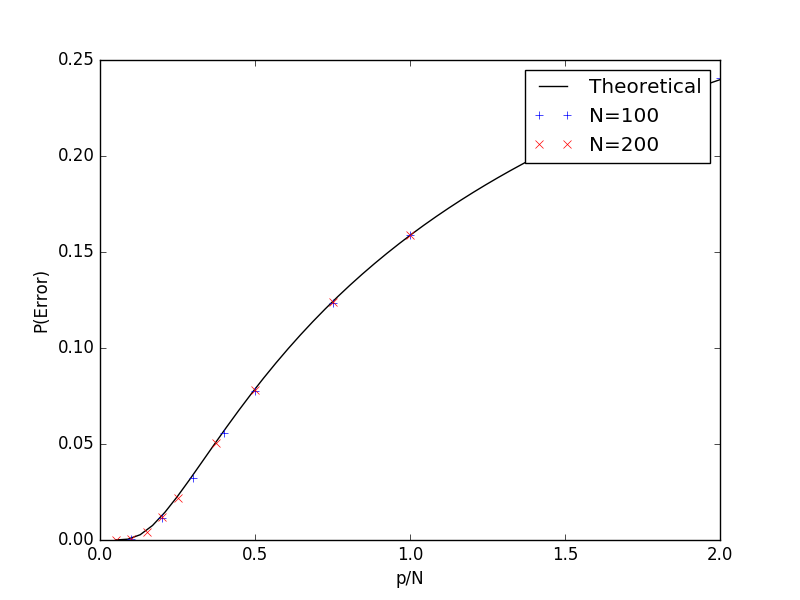
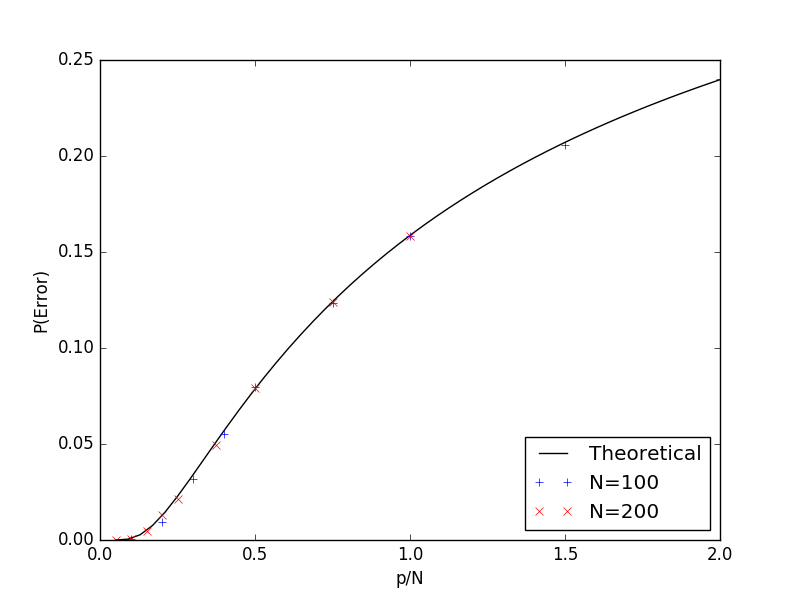
more detailed plots

diff --git a/ex2.py b/ex2.py
@@ -14,30 +14,35 @@ Feed these patterns to the network and use asynchronous updating. For each
 digit, repeat many times. Determine and plot the probability that the
 network retrieves the correct pattern as a function of q. Discuss.
 """
-def run(iters=100, debug=False):
+def run(iters=100, show_updates=False, debug=False):
     digits = common.digits()
     W = common.hebbs_rule(digits)
     P, N = digits.shape
 
-    x_axis = [q/100 for q in range(100)]
+    x_axis = [q/100 for q in range(101)]
     error_mean = []
     error_digit = []
+    updates_digit = []
     for q in x_axis:
         error_d = np.zeros(P)
+        updates_d = np.copy(error_d)
         for n in range(iters):
             distorteds = digits * rp(N, P, q)
             for i, (digit, distorted) in enumerate(zip(digits, distorteds)):
                 lucky = True
-                updates = 1
+                updates = 0
                 while lucky and not np.array_equal(digit, distorted):
                     temp_test = np.copy(distorted)
                     distorted = astep(W, distorted)
-                    lucky = updates % 5 and not np.array_equal(temp_test, distorted)
+                    updates += 1
+                    lucky = updates % 10 and not np.array_equal(temp_test, distorted)
                     if debug and lucky and not updates % 3:
                         print("Wrong updates were made, still feeling lucky for"
                                 " digit ", i, ". Try #", updates, " now...")
-                    updates += 1
+                    #updates += 1
                 error_d[i] += np.sum(np.not_equal(digit, distorted))
+                if show_updates:
+                    updates_d[i] += updates
                 if debug:
                     if not lucky and error_d[i]:
                         err = error_d[i] / ((n+1) * N)
@@ -47,15 +52,24 @@ def run(iters=100, debug=False):
                         print("perfect run! q=", q, " digit ", i, " after ", updates)
         error_digit.append(1 - error_d / (iters * N))
         error_mean.append(np.sum(error_digit[-1]) / P)
-    plt.plot(x_axis, error_digit)
-    plt.plot(x_axis, error_mean)
-    plt.legend(["0", "1", "2", "3", "4", "mean"])
-    plt.ylabel("P(pattern | q)")
-    plt.xlabel("q")
+        if show_updates:
+            updates_digit.append(updates_d / iters)
+    fig, errax = plt.subplots()
+    errax.plot(x_axis, error_digit)
+    errax.plot(x_axis, error_mean)
+    errax.legend(["0", "1", "2", "3", "4", "mean"])
+    errax.set_ylabel("P(pattern | q)")
+    errax.set_xlabel("q")
+    plt.savefig("ex2")
+    if show_updates:
+        updax = errax.twinx()
+        updax.plot(x_axis, updates_digit, ls='--')
+        updax.legend(["updates 0", "updates 1", "updates 2", "updates 3", "updates 4"], loc=4)
+        updax.set_ylabel("Updates")
 #     y = expit(np.linspace(-6,6,100))
 #     plt.plot(x_axis, y)
-    plt.savefig("ex2")
-#     plt.show()
+        plt.savefig("ex2u")
+    plt.show()
 
 def astep(W, digit):
     ilist = [i for i in range(len(W[0]))]

diff --git a/ex1.py b/ex1.py
@@ -53,7 +53,7 @@ def _plot(errors, N, P):
     n100 = plt.plot(x1, errors[0], color='b', marker='+', linestyle='', label="N=100")
     n200 = plt.plot(x2, errors[1], color='r', marker='x', linestyle='', label="N=200")
 
-    plt.legend()
+    plt.legend(loc=4)
 #     plt.legend((n100, n200), ("N=100", "N=200"), scatterpoints=1)
     plt.xlabel("p/N")
     plt.ylabel("P(Error)")
